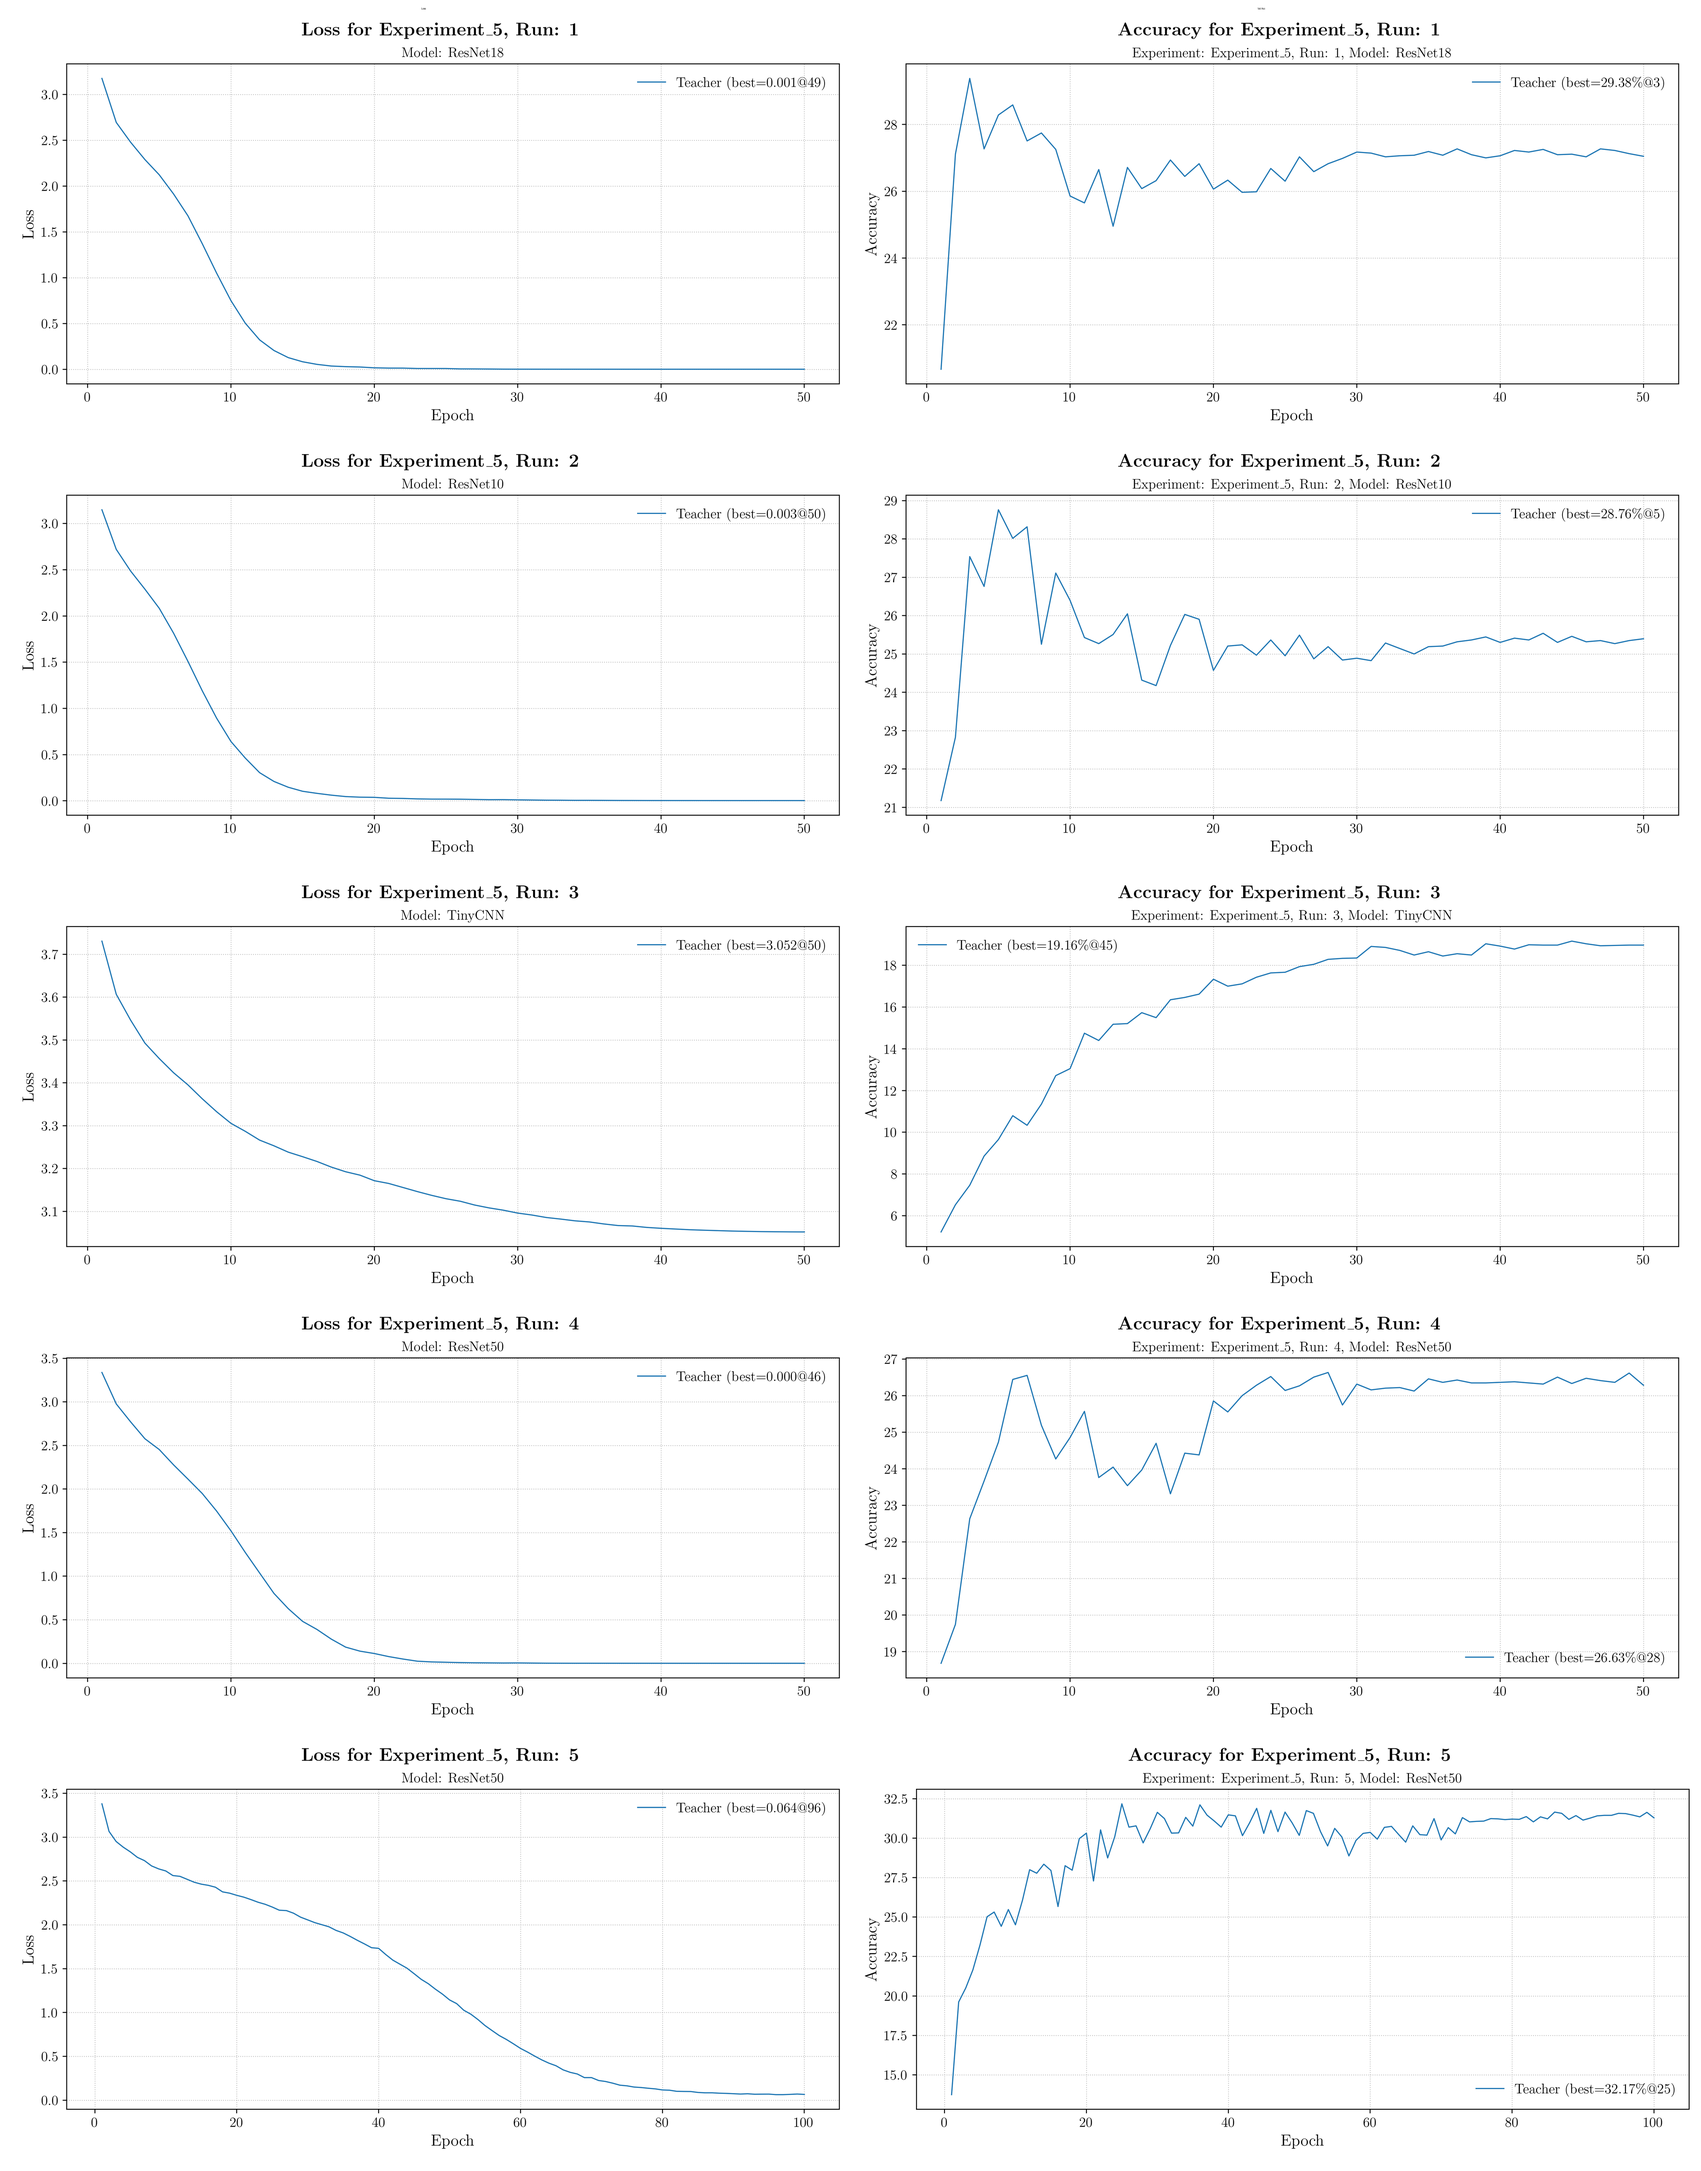
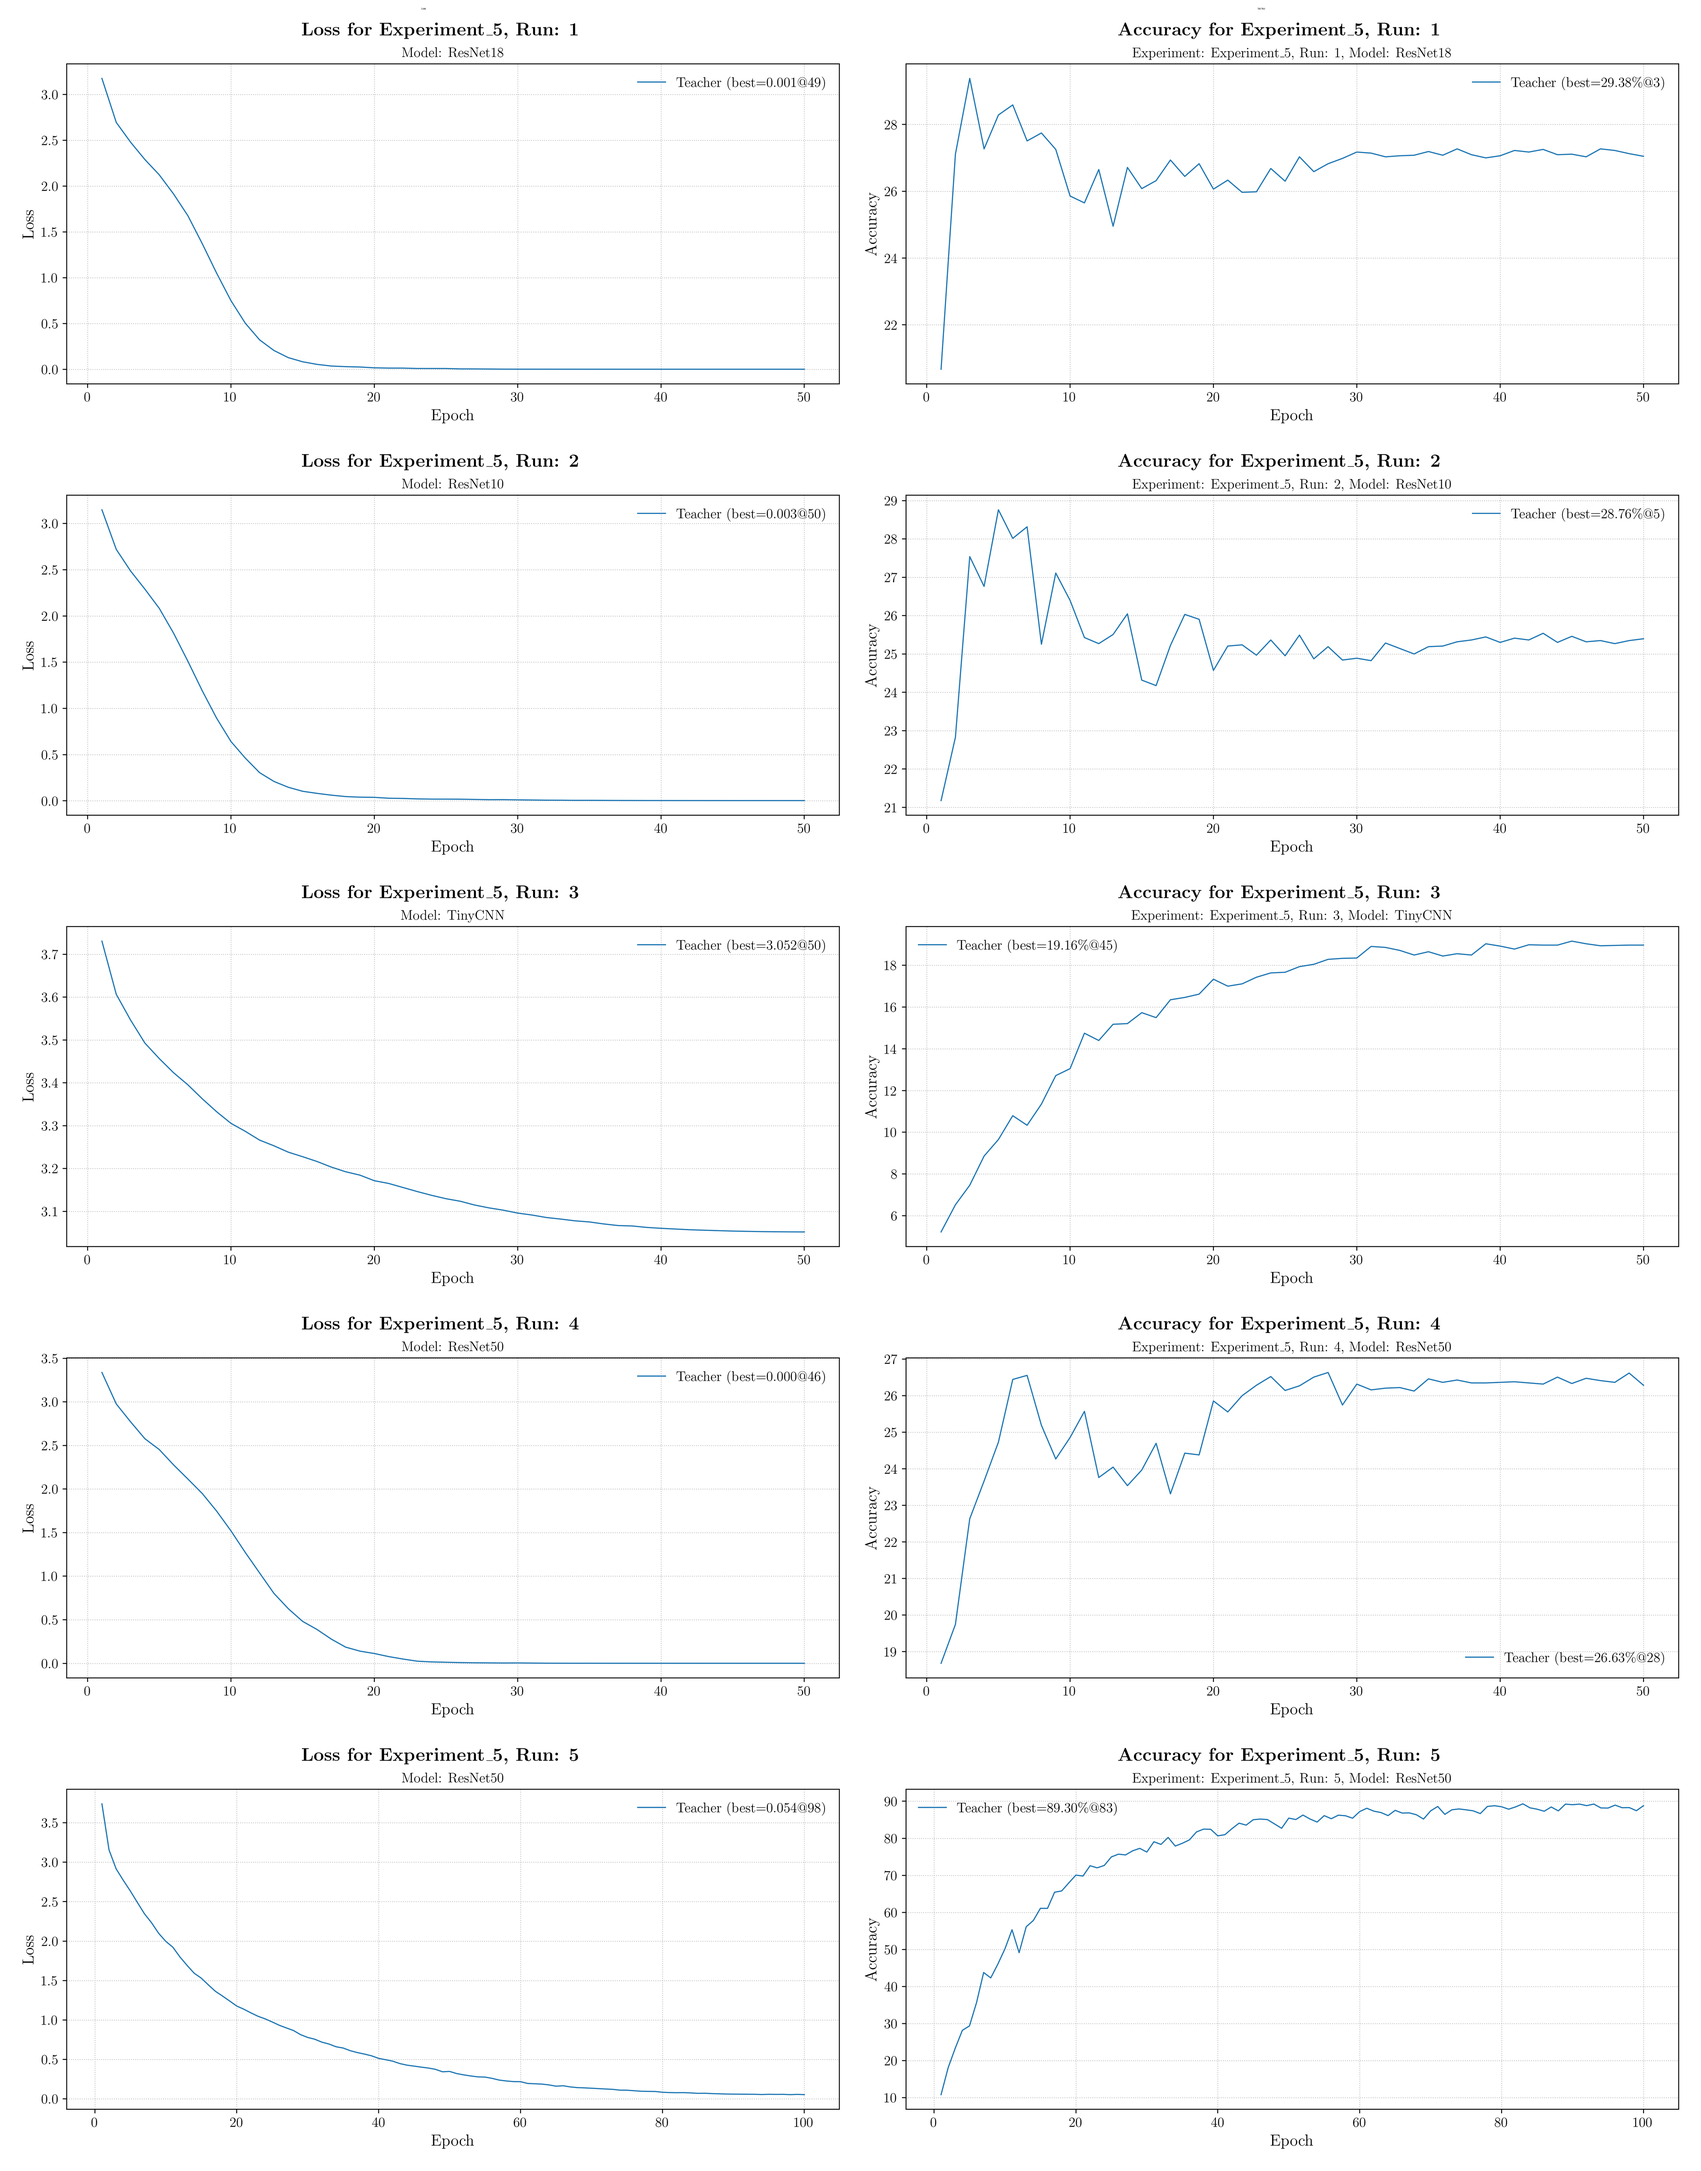
exp5-augmented

diff --git a/framework/utils/generate_plots.py b/framework/utils/generate_plots.py
@@ -17,10 +17,10 @@ def main():
     log.info(f"Config loaded from {logger_cfg_path}")
 
     # Generate plots for experiments
-    _make_plots_for_experiment(experiment_name="Experiment_1", num_runs=12, only_overview=False)
+    # _make_plots_for_experiment(experiment_name="Experiment_1", num_runs=12, only_overview=False)
     # _make_plots_for_experiment(experiment_name="Experiment_3", num_runs=24, only_overview=False)
     # _make_plots_for_experiment(experiment_name="Experiment_4", num_runs=24, only_overview=False)
-    # _make_plots_for_experiment(experiment_name="Experiment_5", num_runs=5, only_overview=False)
+    _make_plots_for_experiment(experiment_name="Experiment_5", num_runs=5, only_overview=False)
     # _make_plots_for_experiment(experiment_name="Experiment_6", num_runs=38, only_overview=False)
 
 
